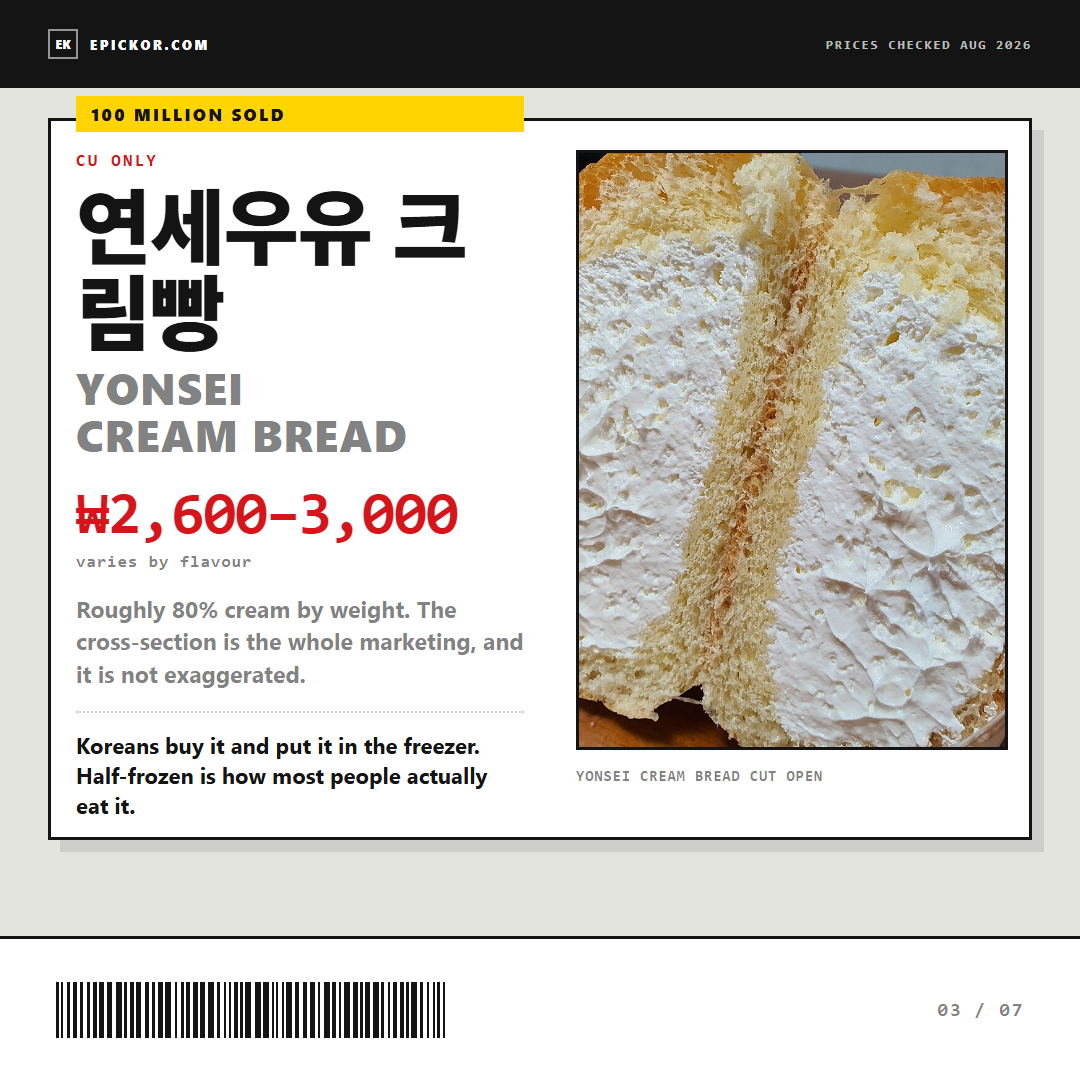
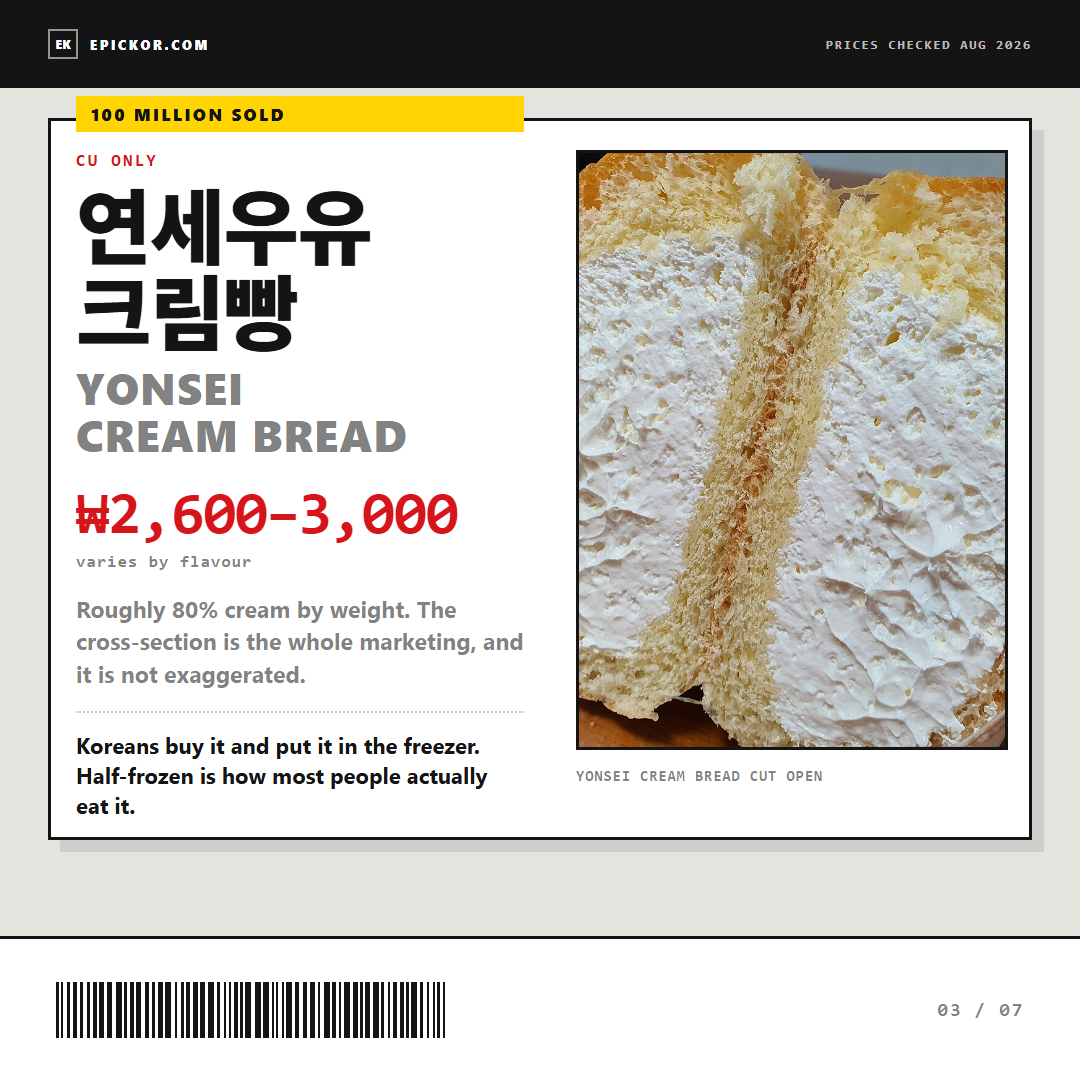
Break Korean display names at the space, not between syllables
연세우유 크림빵 was coming out as 연세우유 크 / 림빵. Two causes, both fixed
across all three renderers.

The browser breaks Hangul between any two syllables unless told otherwise, so
word-break: keep-all now applies to every display-name block. With it the
only legal break in that name is the space: 연세우유 / 크림빵.

The size fitter was also measuring Hangul as if it were Latin. Caps in this
face run about 0.76em wide; Hangul syllables are full-width, near 1.0em, so
연세우유 was measured a quarter narrower than it renders. The line was set too
large to fit the column, which is what forced the wrap in the first place.
The fitter now counts Hangul and Latin separately.

Re-rendered and re-inspected all three sets.

Changed region(s): [[0.0611, 0.2444, 0.275, 0.3361], [0.3667, 0.1833, 0.4278, 0.2444]]

diff --git a/.claude/skills/cardnews/scripts/render-pricetag.py b/.claude/skills/cardnews/scripts/render-pricetag.py
@@ -84,13 +84,23 @@ def esc(text):
 
 
 def fit_size(text, column_px, cap, factor=0.76):
-    """Same measured factor as the Heat Scale renderer, for the same reason:
-    a fixed display size silently pushes a long word into whatever sits beside
-    it, and that only shows up in the PNG."""
-    words = [w for w in re.split(r'\s+|<br>', esc(text).replace('<br>', ' ')) if w]
-    longest = max((len(w) for w in words), default=1)
-    return max(28, min(cap, int(column_px / (longest * factor))))
+    """Shrink a display line until its longest word fits the column.
 
+    Hangul is measured separately. Latin caps in this face run about 0.76em
+    wide; Hangul syllables are full-width, near 1.0em. Measuring 연세우유 with
+    the Latin factor said it was 25% narrower than it is, so the line was set
+    too large to fit and the browser wrapped it — anywhere it liked, which put
+    the break inside 크림빵. Sizing it correctly, together with keep-all below,
+    means the break lands at the space: 연세우유 / 크림빵.
+    """
+    words = [w for w in re.split(r'\s+|<br>', esc(text).replace('<br>', ' ')) if w]
+    if not words:
+        return cap
+    def width(word):
+        han = sum(1 for c in word if '\uac00' <= c <= '\ud7a3')
+        return han * 1.02 + (len(word) - han) * factor
+    widest = max(width(w) for w in words) or 1
+    return max(28, min(cap, int(column_px / widest)))
 
 def barcode(seed):
     """A barcode strip, drawn rather than imported.
@@ -220,14 +230,18 @@ def build(card, index, total, checked):
       color:{PRICE};margin-bottom:12px;">{card['kicker']}</div>''' if card['kicker'] else ''
 
     headline = card['name_ko'] or card.get('main', '')
+    # keep-all, or the browser breaks Hangul between any two syllables and
+    # 연세우유 크림빵 comes out as 연세우유 크 / 림빵. With it the break can only
+    # land on the space: 연세우유 / 크림빵.
     name_ko = f'''
     <div style="font-size:{fit_size(headline, COL, 82)}px;font-weight:950;color:{INK};
-      line-height:1.05;letter-spacing:-0.02em;">{esc(headline)}</div>''' if headline else ''
+      line-height:1.05;letter-spacing:-0.02em;word-break:keep-all;">
+      {esc(headline)}</div>''' if headline else ''
 
     name_en = f'''
     <div style="margin-top:10px;font-size:{fit_size(card['name_en'], COL, 44)}px;
       font-weight:900;color:{MUTE};line-height:1.08;letter-spacing:0.02em;
-      text-transform:uppercase;">{esc(card['name_en'])}</div>''' if card['name_en'] else ''
+      text-transform:uppercase;word-break:keep-all;">{esc(card['name_en'])}</div>''' if card['name_en'] else ''
 
     # The price is monospaced and tabular. It is a till figure, not a headline
     # numeral, and setting it in the display face would make this batch look

diff --git a/.claude/skills/cardnews/scripts/render-heatscale.py b/.claude/skills/cardnews/scripts/render-heatscale.py
@@ -118,17 +118,21 @@ FOOTER_TOP = 928
 def fit_size(text, column_px, cap, factor=0.76):
     """Shrink a display line until its longest word fits the column.
 
-    Measuring the longest *word* rather than the whole line is what matters: a
-    line can wrap, a word cannot, and it is the unwrappable word that punches
-    through the column edge into whatever sits beside it. ANSUNGTANGMYUN is the
-    worst case in this batch and is why the factor is measured rather than
-    guessed — at 0.615 it still crossed into the photograph, because black-
-    weight caps in this face run about 0.75em wide, not 0.6em.
+    Hangul is measured separately. Latin caps in this face run about 0.76em
+    wide; Hangul syllables are full-width, near 1.0em. Measuring 연세우유 with
+    the Latin factor said it was 25% narrower than it is, so the line was set
+    too large to fit and the browser wrapped it — anywhere it liked, which put
+    the break inside 크림빵. Sizing it correctly, together with keep-all below,
+    means the break lands at the space: 연세우유 / 크림빵.
     """
     words = [w for w in re.split(r'\s+|<br>', esc(text).replace('<br>', ' ')) if w]
-    longest = max((len(w) for w in words), default=1)
-    return max(30, min(cap, int(column_px / (longest * factor))))
-
+    if not words:
+        return cap
+    def width(word):
+        han = sum(1 for c in word if '\uac00' <= c <= '\ud7a3')
+        return han * 1.02 + (len(word) - han) * factor
+    widest = max(width(w) for w in words) or 1
+    return max(28, min(cap, int(column_px / widest)))
 
 def heat_bar(shu, index, total):
     """The scale, carried in a dark footer band across the foot of every card.
@@ -297,7 +301,8 @@ def build(card, index, total):
     headline = card['name_ko'] or card['main']
     name_ko = f'''
     <div style="font-size:{fit_size(headline, COL, 86)}px;font-weight:950;
-      color:{INK};line-height:1.04;letter-spacing:-0.02em;">{esc(headline)}</div>
+      color:{INK};line-height:1.04;letter-spacing:-0.02em;
+      word-break:keep-all;">{esc(headline)}</div>
     ''' if headline else ''
 
     # The English name is allowed to run to two lines on an explicit break
@@ -306,7 +311,7 @@ def build(card, index, total):
     name_en = f'''
     <div style="margin-top:10px;font-size:{fit_size(card['name_en'], COL, 46)}px;
       font-weight:900;color:{MUTE};line-height:1.08;letter-spacing:0.02em;
-      text-transform:uppercase;">{esc(card['name_en'])}</div>
+      text-transform:uppercase;word-break:keep-all;">{esc(card['name_en'])}</div>
     ''' if card['name_en'] else ''
 
     note = f'''

diff --git a/.claude/skills/cardnews/scripts/render-stationsign.py b/.claude/skills/cardnews/scripts/render-stationsign.py
@@ -94,10 +94,23 @@ def esc(text):
 
 
 def fit_size(text, column_px, cap, factor=0.76):
-    words = [w for w in re.split(r'\s+|<br>', esc(text).replace('<br>', ' ')) if w]
-    longest = max((len(w) for w in words), default=1)
-    return max(28, min(cap, int(column_px / (longest * factor))))
+    """Shrink a display line until its longest word fits the column.
 
+    Hangul is measured separately. Latin caps in this face run about 0.76em
+    wide; Hangul syllables are full-width, near 1.0em. Measuring 연세우유 with
+    the Latin factor said it was 25% narrower than it is, so the line was set
+    too large to fit and the browser wrapped it — anywhere it liked, which put
+    the break inside 크림빵. Sizing it correctly, together with keep-all below,
+    means the break lands at the space: 연세우유 / 크림빵.
+    """
+    words = [w for w in re.split(r'\s+|<br>', esc(text).replace('<br>', ' ')) if w]
+    if not words:
+        return cap
+    def width(word):
+        han = sum(1 for c in word if '\uac00' <= c <= '\ud7a3')
+        return han * 1.02 + (len(word) - han) * factor
+    widest = max(width(w) for w in words) or 1
+    return max(28, min(cap, int(column_px / widest)))
 
 def roundels(spec, size=64):
     """The line-numbered discs from the platform sign.
@@ -233,10 +246,11 @@ def build(card, index, total):
     display:flex;flex-direction:column;justify-content:center;">
     <div style="margin-bottom:20px;">{roundels(card['lines'])}</div>
     <div style="font-size:{fit_size(card['name_ko'], COL, 86)}px;font-weight:950;
-      color:{TEXT};line-height:1.05;letter-spacing:-0.02em;">{esc(card['name_ko'])}</div>
+      color:{TEXT};line-height:1.05;letter-spacing:-0.02em;
+      word-break:keep-all;">{esc(card['name_ko'])}</div>
     <div style="margin-top:10px;font-size:{fit_size(card['name_en'], COL, 44)}px;
       font-weight:900;color:{MUTE};line-height:1.08;letter-spacing:0.04em;
-      text-transform:uppercase;">{esc(card['name_en'])}</div>
+      text-transform:uppercase;word-break:keep-all;">{esc(card['name_en'])}</div>
     {time_block}
     <div style="margin-top:22px;font-size:23px;font-weight:650;color:{MUTE};
       line-height:1.42;word-break:keep-all;">{esc(card['sub'])}</div>
